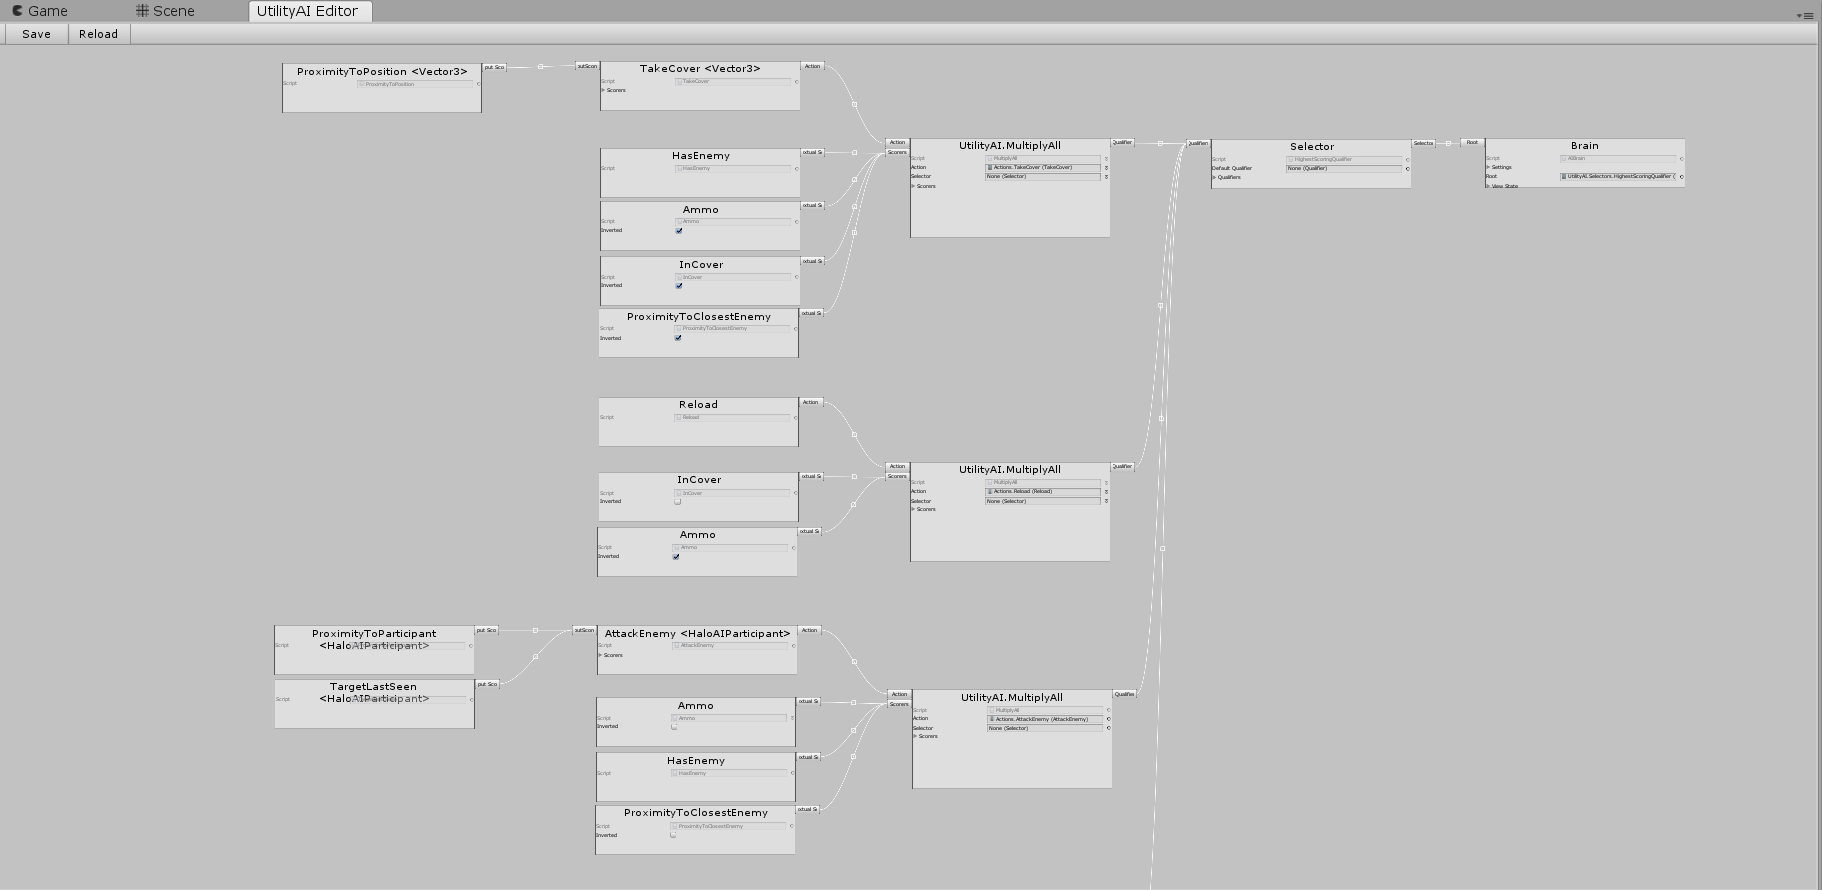
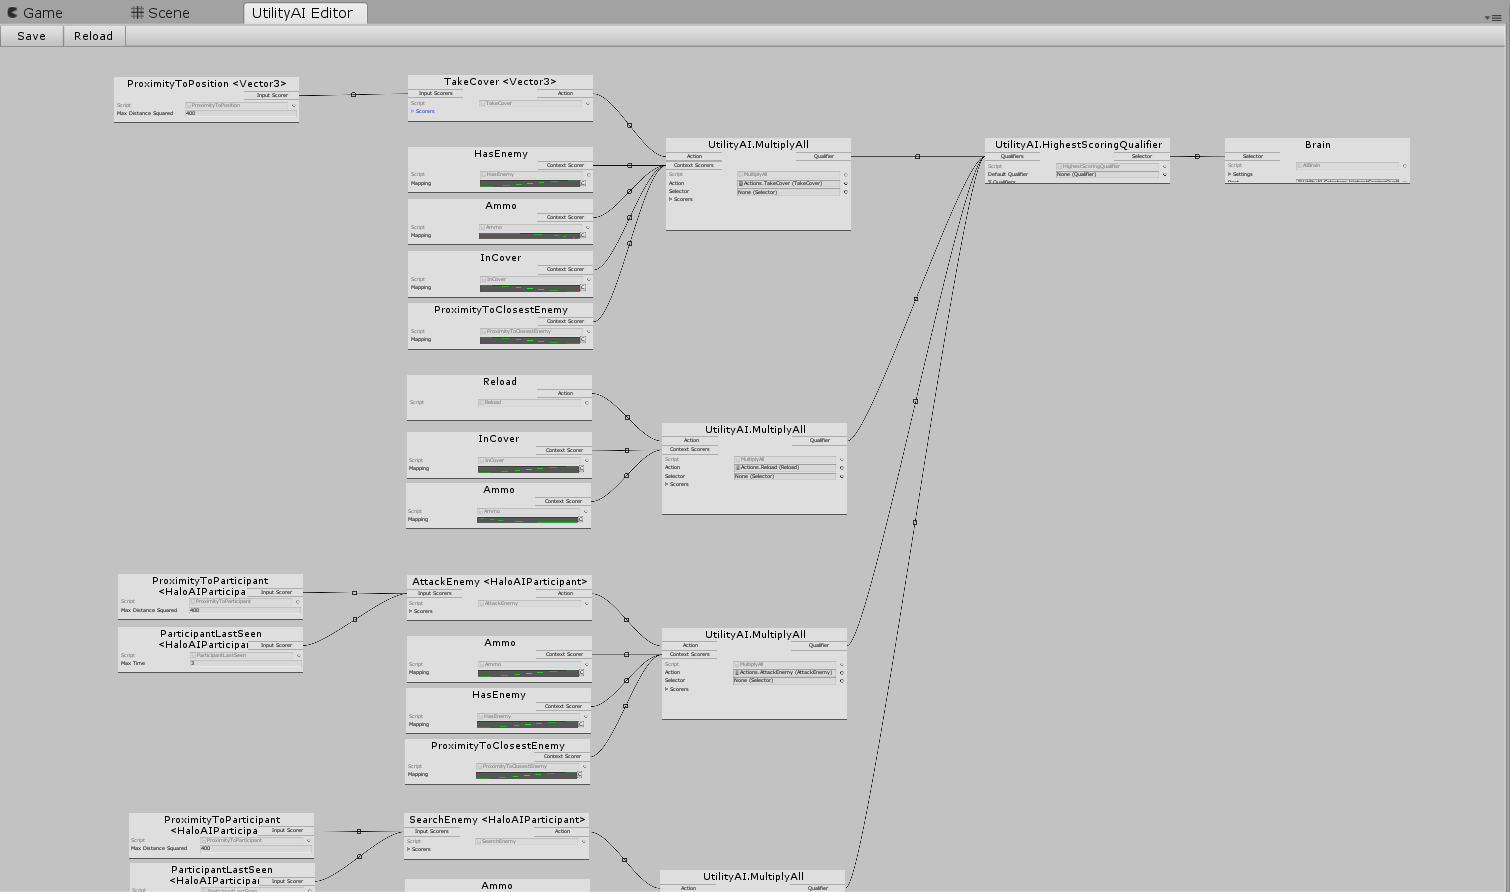
Added ContextualScorer weights (AnimationCurve for score) Editor Improved gui Editor Added ability to delete connections

Changed region(s): [[0.0, 0.0, 1.0, 1.0], [0.0623, 0.9101, 0.2179, 1.0], [0.4358, 0.9708, 0.5603, 1.0]]

diff --git a/Editor/Node.cs b/Editor/Node.cs
@@ -1,6 +1,5 @@
 using System;
 using System.Collections.Generic;
-using UnityEditor;
 using UnityEngine;
 
 namespace UtilityAI {
@@ -22,6 +21,8 @@ namespace UtilityAI {
 
         NodeContext context;
 
+        GUIStyle boxStyle;
+
         public Node(float width, float height, string title, NodeContext context, ScriptableObject ownedScriptableObject) {
             rect = new Rect(512, 256, width, height);
             this.context = context;
@@ -37,18 +38,30 @@ namespace UtilityAI {
         }
 
         public void Draw() {
+            if (boxStyle == null) {
+                boxStyle = new GUIStyle(GUI.skin.box) {
+                    fontSize = 20
+                };
+            }
+
+            GUI.Box(rect, title, boxStyle);
+
+            var titleHeight = 30;
+
+            float inHeight = titleHeight, outHeight = titleHeight;
             for (int i = 0; i < inPorts.Count; ++i) {
                 var port = inPorts[i];
-                port.Draw(i);
+                port.Draw(ref inHeight);
             }
             for (int i = 0; i < outPorts.Count; ++i) {
                 var port = outPorts[i];
-                port.Draw(i);
+                port.Draw(ref outHeight);
             }
 
-            GUI.skin.box.fontSize = 20;
-            GUI.Box(rect, title);
-            GUILayout.BeginArea(new Rect(rect.x, rect.y + 34, rect.width, rect.height - 34));
+            var padding = 4;
+            var height = Mathf.Max(inHeight, outHeight);
+
+            GUILayout.BeginArea(new Rect(rect.x + padding, rect.y + height + padding, rect.width - padding * 2, rect.height - height - padding * 2));
             DrawContent();
             GUILayout.EndArea();
         }
@@ -79,9 +92,9 @@ namespace UtilityAI {
             return false;
         }
 
-        protected Port AddConnectionPoint(ConnectionPointType type, string text) {
-            var point = new Port(this, type, text, type == ConnectionPointType.In ? context.OnClickInPoint : context.OnClickOutPoint);
-            (type == ConnectionPointType.In ? inPorts : outPorts).Add(point);
+        protected Port AddPort(PortType type, string text) {
+            var point = new Port(this, type, text, type == PortType.In ? context.OnClickInPoint : context.OnClickOutPoint);
+            (type == PortType.In ? inPorts : outPorts).Add(point);
 
             return point;
         }

diff --git a/Editor/Port.cs b/Editor/Port.cs
@@ -2,46 +2,51 @@
 using UnityEngine;
 
 namespace UtilityAI {
-    public enum ConnectionPointType { In, Out }
+    public enum PortType {
+        In,
+        Out
+    }
 
     public class Port {
         public Rect rect;
 
-        public ConnectionPointType type;
+        public PortType type;
 
         public Node node;
         
         public Action<Port> OnClickConnectionPoint;
         public Func<Port, bool> AcceptConnect;
+        public Action<Port> OnDisconnect;
 
         public Vector2 connectionPoint {
-            get { return rect.center + new Vector2(type == ConnectionPointType.In ? rect.width * -0.5f : rect.width * 0.5f, 0); }
+            get { return rect.center + new Vector2(type == PortType.In ? rect.width * -0.5f : rect.width * 0.5f, 0); }
         }
 
         public string text;
 
-        public Port(Node node, ConnectionPointType type, string text, Action<Port> OnClickConnectionPoint) {
+        public Port(Node node, PortType type, string text, Action<Port> OnClickConnectionPoint) {
             this.node = node;
             this.type = type;
             this.text = text;
             this.OnClickConnectionPoint = OnClickConnectionPoint;
-            rect = new Rect(0, 0, 50, 20);
+            rect = new Rect(0, 0, 120, 20);
         }
         
-        public void Draw(int idx) {
-            rect.y = node.rect.y + idx * rect.height;
+        public void Draw(ref float height) {
+            rect.y = node.rect.y + height;
+            height += rect.height - 1;
 
             switch (type) {
-                case ConnectionPointType.In:
-                    rect.x = node.rect.x - rect.width;
+                case PortType.In:
+                    rect.x = node.rect.x;
                     break;
 
-                case ConnectionPointType.Out:
-                    rect.x = node.rect.x + node.rect.width;
+                case PortType.Out:
+                    rect.x = node.rect.x + node.rect.width - rect.width;
                     break;
             }
 
-            if (GUI.Button(rect, text)) {
+            if (GUI.Button(rect, text, GUI.skin.box)) {
                 if (OnClickConnectionPoint != null) {
                     OnClickConnectionPoint(this);
                 }

diff --git a/Editor/ActionWithInputsNode.cs b/Editor/ActionWithInputsNode.cs
@@ -1,16 +1,14 @@
 using System.Collections.Generic;
-using UnityEditor;
 
 namespace UtilityAI {
-    public class ActionWithInputsNode : Node {
-        public readonly ActionWithInputsBase action;
+    public class ActionWithInputsNode : ActionNode {
+        public readonly ActionWithInputsBase actionWithInputs;
 
         public Port inputScorersIn;
-        public Port actionOut;
 
         public ActionWithInputsNode(ActionWithInputsBase action, NodeContext context)
-            : base(400, 100, action.GetType().FullName, context, action) {
-            this.action = action;
+            : base(action, context) {
+            this.actionWithInputs = action;
 
             var actionType = action.GetType().BaseType;
             while (actionType != null) {
@@ -21,27 +19,30 @@ namespace UtilityAI {
                 actionType = actionType.BaseType;
             }
 
-            inputScorersIn = AddConnectionPoint(ConnectionPointType.In, "InputScorers");
+            inputScorersIn = AddPort(PortType.In, "Input Scorers");
             inputScorersIn.AcceptConnect = OnAcceptConnect;
-
-            actionOut = AddConnectionPoint(ConnectionPointType.Out, "Action");
+            inputScorersIn.OnDisconnect = OnDisconnect;
         }
-
-        protected override void DrawContent() {
-            var inspector = Editor.CreateEditor(action);
-            inspector.DrawDefaultInspector();
-        }
-
+        
         bool OnAcceptConnect(Port cp) {
             var sn = cp.node as InputScorerNode;
             if (sn == null)
                 return false;
 
-            if (action.scorers == null) {
-                action.scorers = new List<InputScorerBase>();
+            if (actionWithInputs.scorers == null) {
+                actionWithInputs.scorers = new List<InputScorerBase>();
             }
-            action.scorers.Add(sn.scorer);
+            actionWithInputs.scorers.Add(sn.scorer);
             return true;
+        }
+
+        void OnDisconnect(Port cp) {
+            var sn = (InputScorerNode)cp.node;
+
+            if (actionWithInputs.scorers == null)
+                return;
+
+            actionWithInputs.scorers.Remove(sn.scorer);
         }
     }
 }

diff --git a/Editor/QualifierNode.cs b/Editor/QualifierNode.cs
@@ -13,13 +13,15 @@ namespace UtilityAI {
             : base(400, 200, qualifier.GetType().FullName, context, qualifier) {
             this.qualifier = qualifier;
 
-            actionIn = AddConnectionPoint(ConnectionPointType.In, "Action");
+            actionIn = AddPort(PortType.In, "Action");
             actionIn.AcceptConnect = OnActionAcceptConnect;
+            actionIn.OnDisconnect = OnActionDisconnect;
 
-            scorersIn = AddConnectionPoint(ConnectionPointType.In, "Scorers");
+            scorersIn = AddPort(PortType.In, "Context Scorers");
             scorersIn.AcceptConnect = OnScorersAcceptConnect;
+            scorersIn.OnDisconnect = OnScorersDisconnect;
 
-            qualifierOut = AddConnectionPoint(ConnectionPointType.Out, "Qualifier");
+            qualifierOut = AddPort(PortType.Out, "Qualifier");
         }
 
         protected override void DrawContent() {
@@ -36,6 +38,10 @@ namespace UtilityAI {
             return true;
         }
 
+        void OnActionDisconnect(Port cp) {
+            qualifier.action = null;
+        }
+
         bool OnScorersAcceptConnect(Port cp) {
             var sn = cp.node as ContextualScorerNode;
             if (sn == null)
@@ -46,6 +52,15 @@ namespace UtilityAI {
             }
             qualifier.scorers.Add(sn.scorer);
             return true;
+        }
+
+        void OnScorersDisconnect(Port cp) {
+            var sn = (ContextualScorerNode)cp.node;
+
+            if (qualifier.scorers == null)
+                return;
+
+            qualifier.scorers.Remove(sn.scorer);
         }
     }
 }

diff --git a/Editor/SelectorNode.cs b/Editor/SelectorNode.cs
@@ -14,10 +14,11 @@ namespace UtilityAI {
             : base(400, 100, selector.GetType().FullName, context, selector) {
             this.selector = selector;
 
-            qualifiersIn = AddConnectionPoint(ConnectionPointType.In, "Qualifiers");
+            qualifiersIn = AddPort(PortType.In, "Qualifiers");
             qualifiersIn.AcceptConnect = OnAcceptConnect;
+            qualifiersIn.OnDisconnect = OnDisconnect;
 
-            selectorOut = AddConnectionPoint(ConnectionPointType.Out, "Selector");
+            selectorOut = AddPort(PortType.Out, "Selector");
         }
 
         protected override void DrawContent() {
@@ -35,6 +36,15 @@ namespace UtilityAI {
             }
             selector.qualifiers.Add(qn.qualifier);
             return true;
+        }
+
+        void OnDisconnect(Port cp) {
+            var qn = (QualifierNode)cp.node;
+
+            if (selector.qualifiers == null)
+                return;
+
+            selector.qualifiers.Remove(qn.qualifier);
         }
     }
 }

diff --git a/Editor/AIBrainEditor.cs b/Editor/AIBrainEditor.cs
@@ -174,7 +174,7 @@ namespace UtilityAI {
                     nodes.Add(sn);
 
                     foreach (var an in actionNodes) {
-                        var action = an.action as ActionWithInputsBase;
+                        var action = an.actionWithInputs as ActionWithInputsBase;
                         if (action != null && action.scorers.Contains(scorer)) {
                             var c = new Connection(an.inputScorersIn, sn.scorerOut, OnClickRemoveConnection);
                             connections.Add(c);
@@ -465,6 +465,10 @@ namespace UtilityAI {
 
         void OnClickRemoveConnection(Connection connection) {
             connections.Remove(connection);
+
+            if (connection.inPoint.OnDisconnect != null) {
+                connection.inPoint.OnDisconnect.Invoke(connection.outPoint);
+            }
         }
 
         void CreateConnection() {

diff --git a/Editor/BrainNode.cs b/Editor/BrainNode.cs
@@ -1,6 +1,4 @@
-using System;
-using UnityEditor;
-using UnityEngine;
+using UnityEditor;
 
 namespace UtilityAI {
     public class BrainNode : Node {
@@ -12,8 +10,9 @@ namespace UtilityAI {
             : base(400, 100, "Brain", context, brain) {
             this.brain = brain;
 
-            rootIn = AddConnectionPoint(ConnectionPointType.In, "Root");
+            rootIn = AddPort(PortType.In, "Selector");
             rootIn.AcceptConnect = OnAcceptConnect;
+            rootIn.OnDisconnect = OnDisconnect;
         }
 
         protected override void DrawContent() {
@@ -28,6 +27,10 @@ namespace UtilityAI {
 
             brain.root = sn.selector;
             return true;
+        }
+
+        void OnDisconnect(Port cp) {
+            brain.root = null;
         }
     }
 }

diff --git a/Editor/Connection.cs b/Editor/Connection.cs
@@ -20,11 +20,12 @@ namespace UtilityAI {
                 outPoint.connectionPoint,
                 inPoint.connectionPoint + Vector2.left * 50f,
                 outPoint.connectionPoint - Vector2.left * 50f,
-                Color.white,
+                Color.black,
                 null,
                 2f
             );
 
+            Handles.color = Color.black;
             if (Handles.Button((inPoint.rect.center + outPoint.rect.center) * 0.5f, Quaternion.identity, 4, 8, Handles.RectangleHandleCap)) {
                 if (OnClickRemoveConnection != null) {
                     OnClickRemoveConnection(this);

diff --git a/ContextualScorer.cs b/ContextualScorer.cs
@@ -2,6 +2,13 @@
 
 namespace UtilityAI {
     public abstract class ContextualScorer : ScriptableObject {
-        public abstract float Score(IContext context);
+        public AnimationCurve mapping = new AnimationCurve(new Keyframe(0, 0), new Keyframe(1, 1));
+
+        public float Score(IContext context) {
+            var rawScore = RawScore(context);
+            return mapping.Evaluate(rawScore);
+        }
+
+        protected abstract float RawScore(IContext context);
     }
 }

diff --git a/Editor/ContextualScorerNode.cs b/Editor/ContextualScorerNode.cs
@@ -10,7 +10,7 @@ namespace UtilityAI {
           : base(400, 100, scorer.GetType().FullName, context, scorer) {
             this.scorer = scorer;
 
-            scorerOut = AddConnectionPoint(ConnectionPointType.Out, "Conextual Scorer");
+            scorerOut = AddPort(PortType.Out, "Context Scorer");
         }
 
         protected override void DrawContent() {

diff --git a/Editor/ActionNode.cs b/Editor/ActionNode.cs
@@ -10,7 +10,7 @@ namespace UtilityAI {
             : base(400, 100, action.GetType().FullName, context, action) {
             this.action = action;
 
-            actionOut = AddConnectionPoint(ConnectionPointType.Out, "Action");
+            actionOut = AddPort(PortType.Out, "Action");
         }
 
         protected override void DrawContent() {

diff --git a/Editor/InputScorerNode.cs b/Editor/InputScorerNode.cs
@@ -20,7 +20,7 @@ namespace UtilityAI {
                 scorerType = scorerType.BaseType;
             }
 
-            scorerOut = AddConnectionPoint(ConnectionPointType.Out, "Input Scorer");
+            scorerOut = AddPort(PortType.Out, "Input Scorer");
         }
 
         protected override void DrawContent() {
